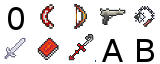
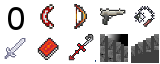
Added the stairs to travel trough levels

Changed region(s): [[0.625, 0.5312, 1.0, 1.0]]

diff --git a/public_html/js/generateItems.js b/public_html/js/generateItems.js
@@ -32,7 +32,7 @@ itemsImage.src = 'images/items.png';
 tilesetImage.onload = placeItem(posHero, ground);
 
 function Artefact(abs, ord) {
-    var type = ['Zéro', 'Boomerang', 'Arc', 'Pistolet', 'Fléau', 'Epée', 'Livre', 'Lance', 'A', 'B'];
+    var type = ['Zéro', 'Boomerang', 'Arc', 'Pistolet', 'Fléau', 'Epée', 'Livre', 'Lance', 'Descendre', 'Monter'];
     
     //Position de l'item
     this.x = abs;
@@ -45,7 +45,7 @@ function Artefact(abs, ord) {
     this.mp = rand(-5,5,1);
     
     //Création du nom en fonction des caractéristiques
-    this.quelType = rand(0,9,1);    
+    this.quelType = rand(0,7,1);    
     this.name = type[this.quelType];
     
     var nbPlus5 = 0;
@@ -120,6 +120,30 @@ function placeItem(avoid, tabFree) {
     }
     
     nbItems = rand(cmp/14, cmp/7, 1);                    //nombre d'items à générer
+        
+    //Place l'escalier vers le haut (sous le héros) et vers le bas
+    var stairUp = new Artefact(avoid[0], avoid[1]);
+    stairUp.att = 0;
+    stairUp.def = 0;
+    stairUp.hp = 0;
+    stairUp.mp = 0;
+    stairUp.quelType = 9;
+    item[avoid[1]][avoid[0]] = stairUp;
+    
+    drawItem(avoid, stairUp);
+    
+    do {
+        coord = placeIt();
+    }while(coord === avoid[0] && coord[1] === avoid[1] || item[coord[1]][coord[0]]);
+    
+    var stairDown = new Artefact(coord[0], coord[1]);
+    stairDown.att = 0;
+    stairDown.def = 0;
+    stairDown.hp = 0;
+    stairDown.mp = 0;
+    stairDown.quelType = 8;
+    item[coord[1]][coord[0]] = stairDown;
+    drawItem(coord, stairDown);
     
     for(var k = nbItems; k >= 0 ; k--) {    
         do {
@@ -127,7 +151,6 @@ function placeItem(avoid, tabFree) {
         }while(coord === avoid[0] && coord[1] === avoid[1] || item[coord[1]][coord[0]]); //Ne place pas d'item sous la position de départ du héros ou s'il y a déjà un objet
         
         var tmp = new Artefact(coord[0], coord[1]);
-        alert(tmp.name+'\n'+tmp.x+' '+tmp.y);
         item[coord[1]][coord[0]] = tmp;
     
         drawItem(coord, tmp);
@@ -143,10 +166,20 @@ function drawItem(coord, art) {
 //Evènement quand le héros arrive sur la case
 function getItem(coord) {
     var tmp = item[coord[1]][coord[0]];
-    if(tmp) {
+    if(tmp && tmp.quelType !== 8 && tmp.quelType !== 9) {
         if(confirm('Vous avez trouvé un(e) ' +  tmp.name + '!\nLe prendre ?')) {
             icxt.clearRect(coord[0]*TILESIZE, coord[1]*TILESIZE, TILESIZE, TILESIZE);
             item[coord[1]][coord[0]] = 0;
+        }
+    }
+    else if(tmp.quelType === 8) {
+        if(confirm('Voulez-vous descendre au niveau suivant ?')) {
+            window.location.reload();
+        }
+    }
+    else if(tmp.quelType === 9) {
+        if(confirm('Voulez-vous monter au niveau précédent ?')) {
+            window.location.reload();    
         }
     }
 }
